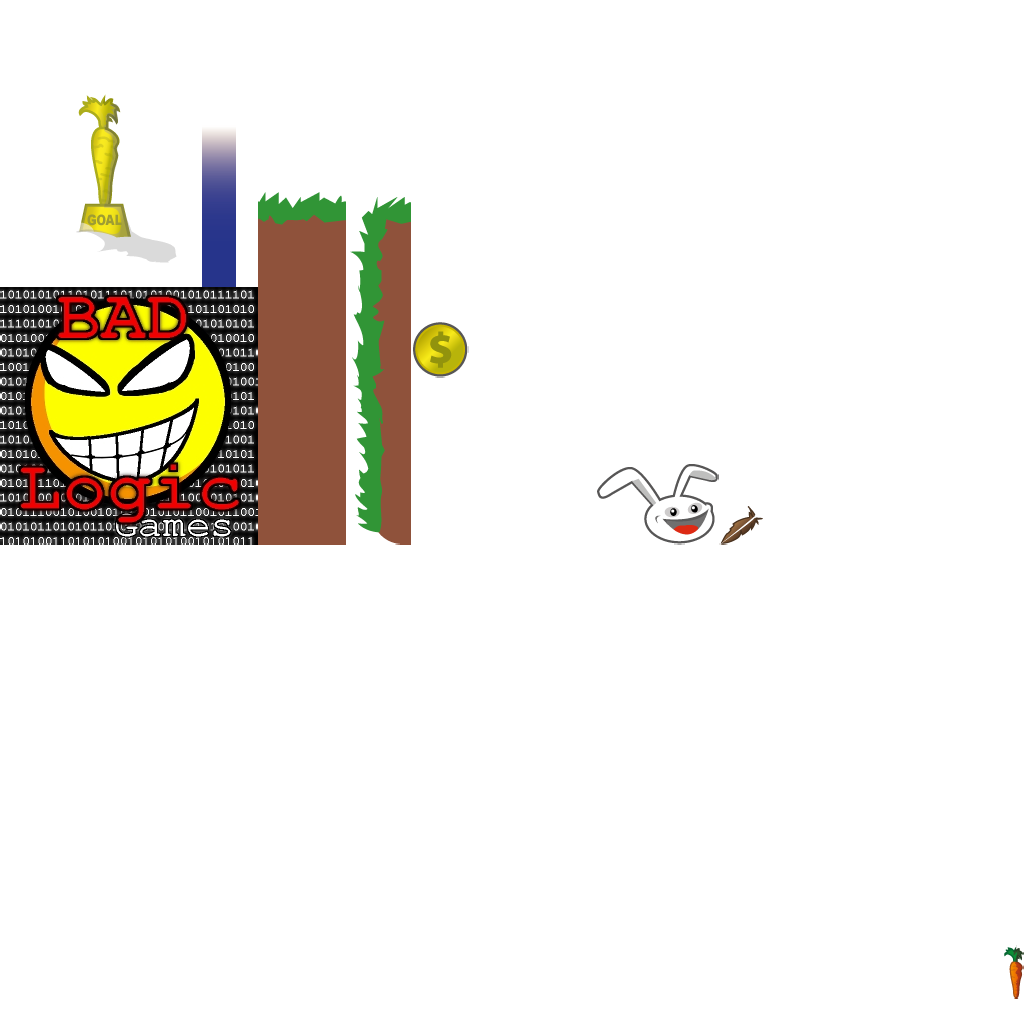
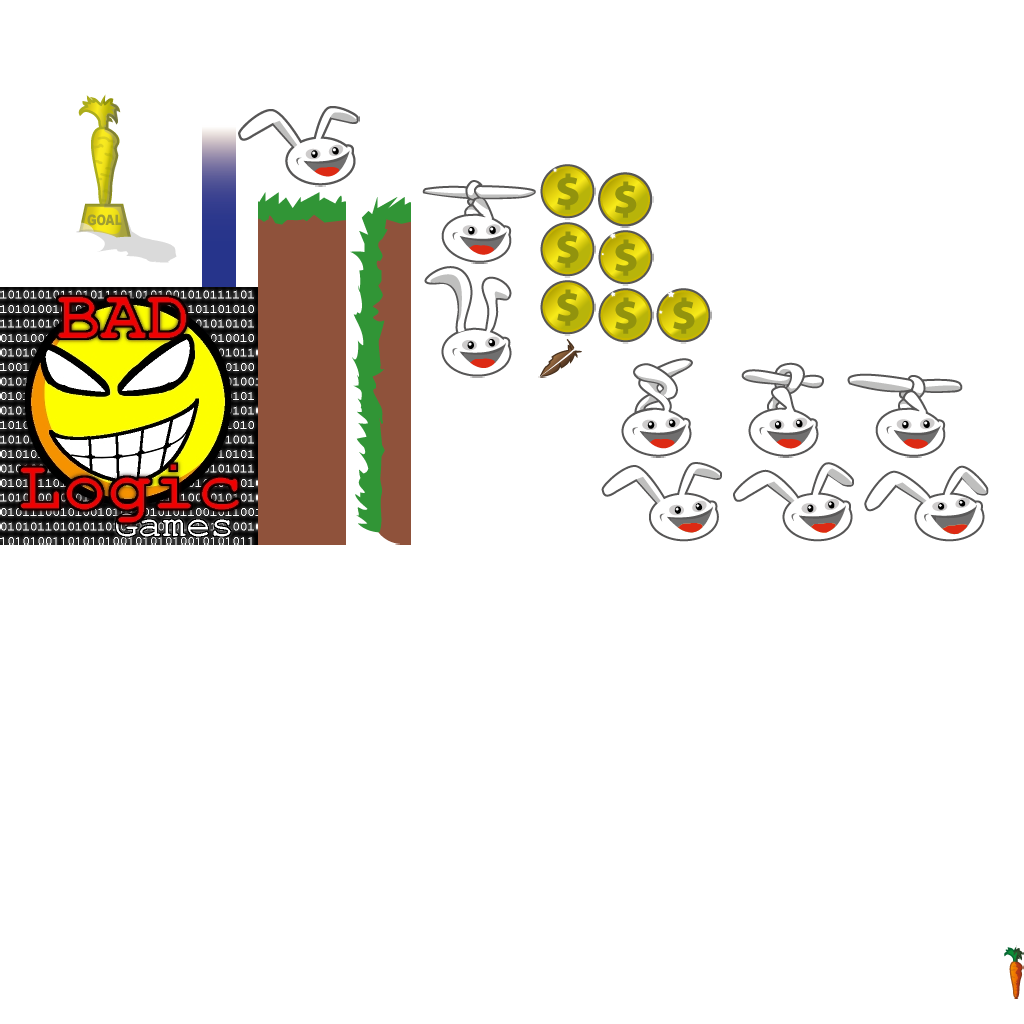
Assignment 12a:
Modified: MenuScreen, GoldCoin, BunnyHead, AbstractGameObject, Assets.
Added: Animation images to the texture pack.

Changed region(s): [[0.4062, 0.1562, 0.9688, 0.5312], [0.25, 0.0938, 0.3438, 0.1875]]

diff --git a/core/src/com/olah/gdx/game/GameObjects/BunnyHead.java b/core/src/com/olah/gdx/game/GameObjects/BunnyHead.java
@@ -1,6 +1,7 @@
 package com.olah.gdx.game.GameObjects;
 
 import com.badlogic.gdx.Gdx;
+import com.badlogic.gdx.graphics.g2d.Animation;
 import com.badlogic.gdx.graphics.g2d.ParticleEffect;
 import com.badlogic.gdx.graphics.g2d.SpriteBatch;
 import com.badlogic.gdx.graphics.g2d.TextureRegion;
@@ -29,7 +30,10 @@ public class BunnyHead extends AbstractGameObject
 		JUMP_FALLING
 	}
 	
-	private TextureRegion regHead;
+	private Animation animNormal;
+	private Animation animCopterTransform;
+	private Animation animCopterTransformBack;
+	private Animation animCopterRotate;
 	
 	public VIEW_DIRECTION viewDirection;
 	public float timeJumping;
@@ -37,6 +41,7 @@ public class BunnyHead extends AbstractGameObject
 	public boolean hasFeatherPowerup;
 	public float timeLeftFeatherPowerup;
 	public ParticleEffect dustParticles = new ParticleEffect();
+	
 	
 	public BunnyHead()
 	{
@@ -46,7 +51,11 @@ public class BunnyHead extends AbstractGameObject
 	public void init()
 	{
 		dimension.set(1,1);
-		regHead = Assets.instance.bunny.head;
+		animNormal = Assets.instance.bunny.animNormal;
+		animCopterTransform = Assets.instance.bunny.animCopterTransform;
+		animCopterTransformBack = Assets.instance.bunny.animCopterTransformBack;
+		animCopterRotate = Assets.instance.bunny.animCopterRotate;
+		setAnimation(animNormal);
 		//Center image on game object
 		origin.set(dimension.x/2,dimension.y/2);
 		//Bounding box for collision detection
@@ -133,18 +142,52 @@ public class BunnyHead extends AbstractGameObject
 		{
 			viewDirection = velocity.x <0 ? VIEW_DIRECTION.LEFT : VIEW_DIRECTION.RIGHT;
 		}
-		if(timeLeftFeatherPowerup > 0)
-		{
+		if (timeLeftFeatherPowerup > 0) {
+			if (animation == animCopterTransformBack) {
+				// Restart "Transform" animation if another feather power-up
+				// was picked up during "TransformBack" animation. Otherwise,
+				// the "TransformBack" animation would be stuck while the
+				// power-up is still active.
+				setAnimation(animCopterTransform);
+			}
 			timeLeftFeatherPowerup -= deltaTime;
-			if(timeLeftFeatherPowerup < 0)
-			{
-				//disable Powerup
+			if (timeLeftFeatherPowerup < 0) {
+				// disable power-up
 				timeLeftFeatherPowerup = 0;
 				setFeatherPowerup(false);
+				setAnimation(animCopterTransformBack);
 			}
 		}
 		dustParticles.update(deltaTime);
+		
+		// Change animation state according to feather power-up
+		if (hasFeatherPowerup) 
+		{
+			if (animation == animNormal) 
+			{
+				setAnimation(animCopterTransform);
+			} else if (animation == animCopterTransform) 
+			{
+				if (animation.isAnimationFinished(stateTime)) 
+				{
+						setAnimation(animCopterRotate);
+				}
+			}
+		} else if (animation == animCopterRotate) 
+		{
+			if (animation.isAnimationFinished(stateTime)) 
+			{
+				setAnimation(animCopterTransformBack);
+			}
+		} else if (animation == animCopterTransformBack) 
+		{
+			if (animation.isAnimationFinished(stateTime)) 
+			{
+					setAnimation(animNormal);
+			}
+		}
 	}
+
 	
 	@Override
 	public void updateMotionY(float deltaTime)
@@ -198,14 +241,18 @@ public class BunnyHead extends AbstractGameObject
 		//Apply Skin Color
 		batch.setColor(CharacterSkin.values()[GamePreferences.instance.charSkin].getColor());
 		
-		//Set special color when game object has a feather powerup
-		if(hasFeatherPowerup)
+
+		float dimCorrectionX = 0;
+		float dimCorrectionY = 0;
+		if (animation != animNormal) 
 		{
-			batch.setColor(1.0f,0.8f,0.0f,1.0f);
+			dimCorrectionX = 0.05f;
+			dimCorrectionY = 0.2f;
 		}
-		//Draw image
-		reg = regHead;
-		batch.draw(reg.getTexture(),position.x, position.y, origin.x, origin.y, dimension.x, dimension.y, scale.x, scale.y, rotation, reg.getRegionX(), reg.getRegionY(), reg.getRegionWidth(), reg.getRegionHeight(),viewDirection == VIEW_DIRECTION.LEFT, false);
+		// Draw image
+		reg = animation.getKeyFrame(stateTime, true);
+
+		batch.draw(reg.getTexture(), position.x, position.y, origin.x, origin.y, dimension.x + dimCorrectionX, dimension.y + dimCorrectionY, scale.x, scale.y, rotation, reg.getRegionX(), reg.getRegionY(), reg.getRegionWidth(), reg.getRegionHeight(), viewDirection == VIEW_DIRECTION.LEFT, false);
 		
 		//Resets the color to white
 		batch.setColor(1,1,1,1);

diff --git a/core/src/com/olah/gdx/game/MenuScreen.java b/core/src/com/olah/gdx/game/MenuScreen.java
@@ -5,8 +5,11 @@ import com.badlogic.gdx.Gdx;
 import com.badlogic.gdx.graphics.Color;
 import com.badlogic.gdx.graphics.GL20;
 import com.badlogic.gdx.graphics.g2d.TextureAtlas;
+import com.badlogic.gdx.math.Interpolation;
 import com.badlogic.gdx.scenes.scene2d.Actor;
 import com.badlogic.gdx.scenes.scene2d.Stage;
+import com.badlogic.gdx.scenes.scene2d.Touchable;
+import com.badlogic.gdx.scenes.scene2d.actions.SequenceAction;
 import com.badlogic.gdx.scenes.scene2d.ui.Button;
 import com.badlogic.gdx.scenes.scene2d.ui.CheckBox;
 import com.badlogic.gdx.scenes.scene2d.ui.Image;
@@ -24,6 +27,7 @@ import com.badlogic.gdx.utils.viewport.StretchViewport;
 import com.olah.gdx.game.Assets;
 import com.olah.gdx.game.util.CharacterSkin;
 import com.olah.gdx.game.util.Constants;
+import static com.badlogic.gdx.scenes.scene2d.actions.Actions.*;
 
 /**
  *
@@ -108,12 +112,29 @@ public class MenuScreen extends AbstractGameScreen
 		// + Coins
 		imgCoins = new Image(skinCanyonBunny, "coins");
 		layer.addActor(imgCoins);
-		imgCoins.setPosition(135, 80);
+		imgCoins.setOrigin(imgCoins.getWidth()/2,imgCoins.getHeight()/2);
+		imgCoins.addAction(
+				sequence(
+					moveTo(135,-20),
+					scaleTo(0,0),
+					fadeOut(0),
+					delay(2.5f),
+					parallel(moveBy(0,100,0.5f,Interpolation.swingOut),
+					scaleTo(1.0f,1.0f,0.25f,Interpolation.linear),
+					alpha(1.0f,0.5f))
+				));
 
 		// + Bunny
 		imgBunny = new Image(skinCanyonBunny,"bunny");
 		layer.addActor(imgBunny);
-		imgBunny.setPosition(355, 40);
+		imgBunny.addAction(
+				sequence(
+						moveTo(655,510),
+						delay(4.0f),
+						moveBy(-70,-100,0.5f,Interpolation.fade),
+						moveBy(-100,-50,0.5f,Interpolation.fade),
+						moveBy(-150,-300,1.0f,Interpolation.elasticIn)
+				));
 		return layer;
 	}
 
@@ -180,7 +201,7 @@ public class MenuScreen extends AbstractGameScreen
 		// Make options window slightly transparent
 		winOptions.setColor(1, 1, 1, 0.8f);
 		// Hide options window by default
-		winOptions.setVisible(false);
+		showOptionsWindow(false, false);
 		if (debugEnabled)
 		{
 			winOptions.debug();
@@ -335,9 +356,8 @@ public class MenuScreen extends AbstractGameScreen
 
 	private void onCancelClicked() 
 	{
-		btnMenuPlay.setVisible(true);
-		btnMenuOptions.setVisible(true);
-		winOptions.setVisible(false);
+		showMenuButtons(true);
+		showOptionsWindow(false,true);
 		AudioManager.instance.onSettingsUpdated();
 	}
 
@@ -349,9 +369,46 @@ public class MenuScreen extends AbstractGameScreen
 	private void onOptionsClicked()
 	{
 		loadSettings();
-		btnMenuPlay.setVisible(false);
-		btnMenuOptions.setVisible(false);
-		winOptions.setVisible(true);
+		showMenuButtons(false);
+		showOptionsWindow(true,true);
+	}
+	
+	private void showMenuButtons(boolean visible) 
+	{
+		float moveDuration = 1.0f;
+		Interpolation moveEasing = Interpolation.swing;
+		float delayOptionsButton = 0.25f;
+
+		float moveX = 300 * (visible ? -1 : 1);
+		float moveY = 0 * (visible ? -1 : 1);
+		final Touchable touchEnabled = visible ? Touchable.enabled
+				: Touchable.disabled;
+		btnMenuPlay.addAction(moveBy(moveX, moveY, moveDuration, moveEasing));
+		btnMenuOptions.addAction(sequence(delay(delayOptionsButton),
+				moveBy(moveX, moveY, moveDuration, moveEasing)));
+
+		SequenceAction seq = sequence();
+		if (visible)
+			seq.addAction(delay(delayOptionsButton + moveDuration));
+		seq.addAction(run(new Runnable() {
+			public void run() {
+				btnMenuPlay.setTouchable(touchEnabled);
+				btnMenuOptions.setTouchable(touchEnabled);
+			}
+		}));
+		stage.addAction(seq);
+	}
+	
+	private void showOptionsWindow(boolean visible, boolean animated) 
+	{
+		float alphaTo = visible ? 0.8f : 0.0f;
+		float duration = animated ? 1.0f : 0.0f;
+		Touchable touchEnabled = visible ? Touchable.enabled : Touchable.disabled;
+		winOptions.addAction(
+				sequence(
+						touchable(touchEnabled), 
+						alpha(alphaTo, duration)
+				));
 	}
 
 	@Override

diff --git a/core/src/com/olah/gdx/game/Assets.java b/core/src/com/olah/gdx/game/Assets.java
@@ -6,8 +6,10 @@ import com.badlogic.gdx.assets.AssetErrorListener;
 import com.badlogic.gdx.assets.AssetManager;
 import com.badlogic.gdx.audio.Music;
 import com.badlogic.gdx.audio.Sound;
+import com.badlogic.gdx.graphics.g2d.Animation;
 import com.badlogic.gdx.graphics.g2d.BitmapFont;
 import com.badlogic.gdx.graphics.g2d.TextureAtlas;
+import com.badlogic.gdx.utils.Array;
 import com.badlogic.gdx.utils.Disposable;
 import com.olah.gdx.game.util.Constants;
 import com.badlogic.gdx.graphics.g2d.TextureAtlas.AtlasRegion;
@@ -115,10 +117,35 @@ public class Assets implements Disposable, AssetErrorListener
 	public class AssetBunny
 	{
 		public final AtlasRegion head;
+		public final Animation animNormal;
+		public final Animation animCopterTransform;
+		public final Animation animCopterTransformBack;
+		public final Animation animCopterRotate;
 
 		public AssetBunny (TextureAtlas atlas)
 		{
 			head = atlas.findRegion("bunny_head");
+			
+			Array<AtlasRegion> regions = null;
+			AtlasRegion region = null;
+
+			// Animation: Bunny Normal
+			regions = atlas.findRegions("anim_bunny_normal");
+			animNormal = new Animation(1.0f / 10.0f, regions, Animation.PlayMode.LOOP_PINGPONG);
+	
+			// Animation: Bunny Copter - knot ears
+			regions = atlas.findRegions("anim_bunny_copter");
+			animCopterTransform = new Animation(1.0f / 10.0f, regions);
+
+			// Animation: Bunny Copter - unknot ears
+			regions = atlas.findRegions("anim_bunny_copter");
+			animCopterTransformBack = new Animation(1.0f / 10.0f, regions,	Animation.PlayMode.REVERSED);
+
+			// Animation: Bunny Copter - rotate ears
+			regions = new Array<AtlasRegion>();
+			regions.add(atlas.findRegion("anim_bunny_copter", 4));
+			regions.add(atlas.findRegion("anim_bunny_copter", 5));
+			animCopterRotate = new Animation(1.0f / 15.0f, regions);
 		}
 	}
 
@@ -145,10 +172,20 @@ public class Assets implements Disposable, AssetErrorListener
 	public class AssetGoldCoin
 	{
 		public final AtlasRegion goldCoin;
+		public final Animation animGoldCoin;
 
 		public AssetGoldCoin (TextureAtlas atlas)
 		{
 			goldCoin = atlas.findRegion("item_gold_coin");
+			
+			// Animation: Gold Coin
+			Array<AtlasRegion> regions = atlas.findRegions("anim_gold_coin");
+			AtlasRegion region = regions.first();
+			for (int i = 0; i < 10; i++)
+			{
+				regions.insert(0, region);
+			}
+			animGoldCoin = new Animation(1.0f / 20.0f, regions,	Animation.PlayMode.LOOP_PINGPONG);
 		}
 	}
 

diff --git a/core/src/com/olah/gdx/game/GameObjects/GoldCoin.java b/core/src/com/olah/gdx/game/GameObjects/GoldCoin.java
@@ -2,6 +2,7 @@ package com.olah.gdx.game.GameObjects;
 
 import com.badlogic.gdx.graphics.g2d.SpriteBatch;
 import com.badlogic.gdx.graphics.g2d.TextureRegion;
+import com.badlogic.gdx.math.MathUtils;
 import com.olah.gdx.game.Assets;
 
 public class GoldCoin extends AbstractGameObject
@@ -18,8 +19,8 @@ public class GoldCoin extends AbstractGameObject
 	private void init()
 	{
 		dimension.set(0.5f,0.5f);
-		
-		regGoldCoin = Assets.instance.goldCoin.goldCoin;
+		setAnimation(Assets.instance.goldCoin.animGoldCoin);
+		stateTime = MathUtils.random(0.0f,1.0f);
 		
 		//Set bounding box for collision detection
 		bounds.set(0,0,dimension.x,dimension.y);
@@ -32,7 +33,7 @@ public class GoldCoin extends AbstractGameObject
 		if(collected) return;
 		
 		TextureRegion reg = null;
-		reg = regGoldCoin;
+		reg = animation.getKeyFrame(stateTime,true);
 		batch.draw(reg.getTexture(),position.x, position.y, origin.x, origin.y, dimension.x, dimension.y, scale.x, scale.y, rotation, reg.getRegionX(), reg.getRegionY(), reg.getRegionWidth(), reg.getRegionHeight(),false, false);
 	}
 	

diff --git a/core/src/com/olah/gdx/game/GameObjects/AbstractGameObject.java b/core/src/com/olah/gdx/game/GameObjects/AbstractGameObject.java
@@ -1,5 +1,6 @@
 package com.olah.gdx.game.GameObjects;
 
+import com.badlogic.gdx.graphics.g2d.Animation;
 import com.badlogic.gdx.graphics.g2d.SpriteBatch;
 import com.badlogic.gdx.math.MathUtils;
 import com.badlogic.gdx.math.Rectangle;
@@ -13,6 +14,8 @@ import com.badlogic.gdx.physics.box2d.Body;
 public abstract class AbstractGameObject 
 {
 	public Body body;
+	public float stateTime;
+	public Animation animation;
 	
 	public Vector2 velocity;
 	public Vector2 terminalVelocity;
@@ -42,6 +45,7 @@ public abstract class AbstractGameObject
 	
 	public void update(float deltaTime)
 	{
+		stateTime += deltaTime;
 		if(body == null)
 		{
 			updateMotionX(deltaTime);
@@ -57,6 +61,16 @@ public abstract class AbstractGameObject
 		}
 	
 		
+	}
+	
+	/**
+	 * Sets the animation of the game object
+	 * @param animation
+	 */
+	void setAnimation(Animation animation)
+	{
+		this.animation = animation;
+		stateTime = 0;
 	}
 	
 	protected void updateMotionX(float deltaTime)
